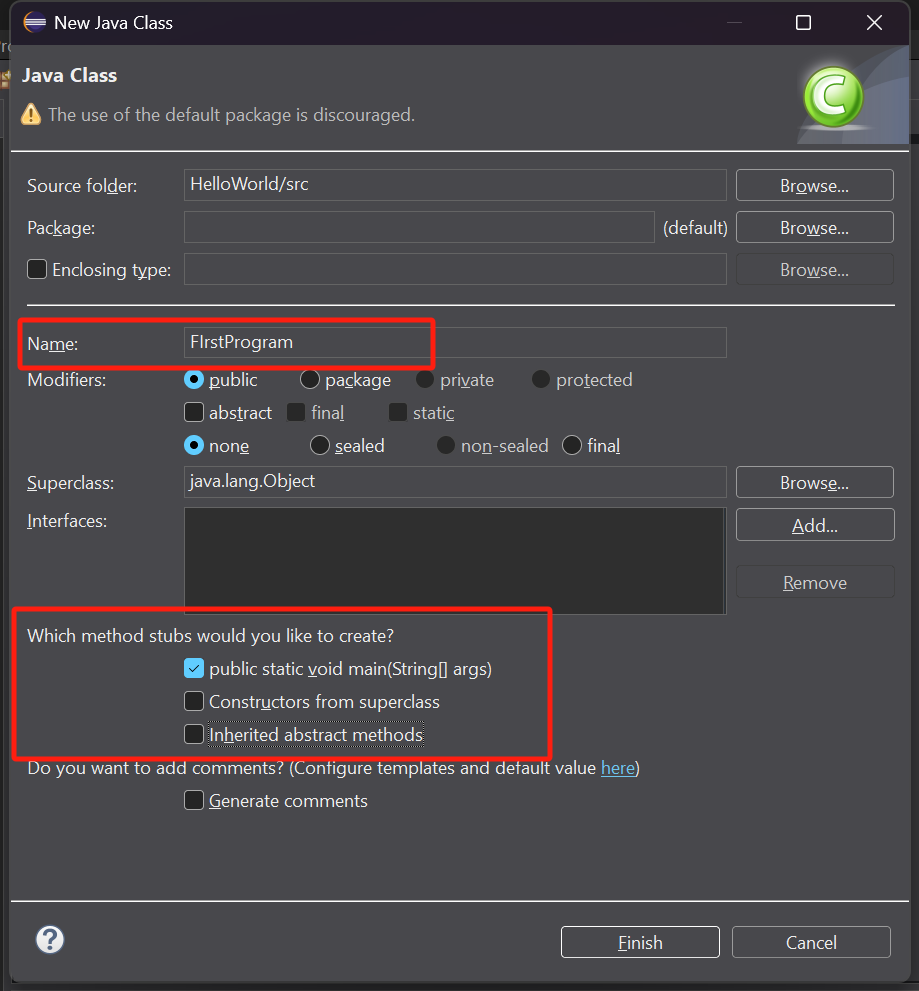
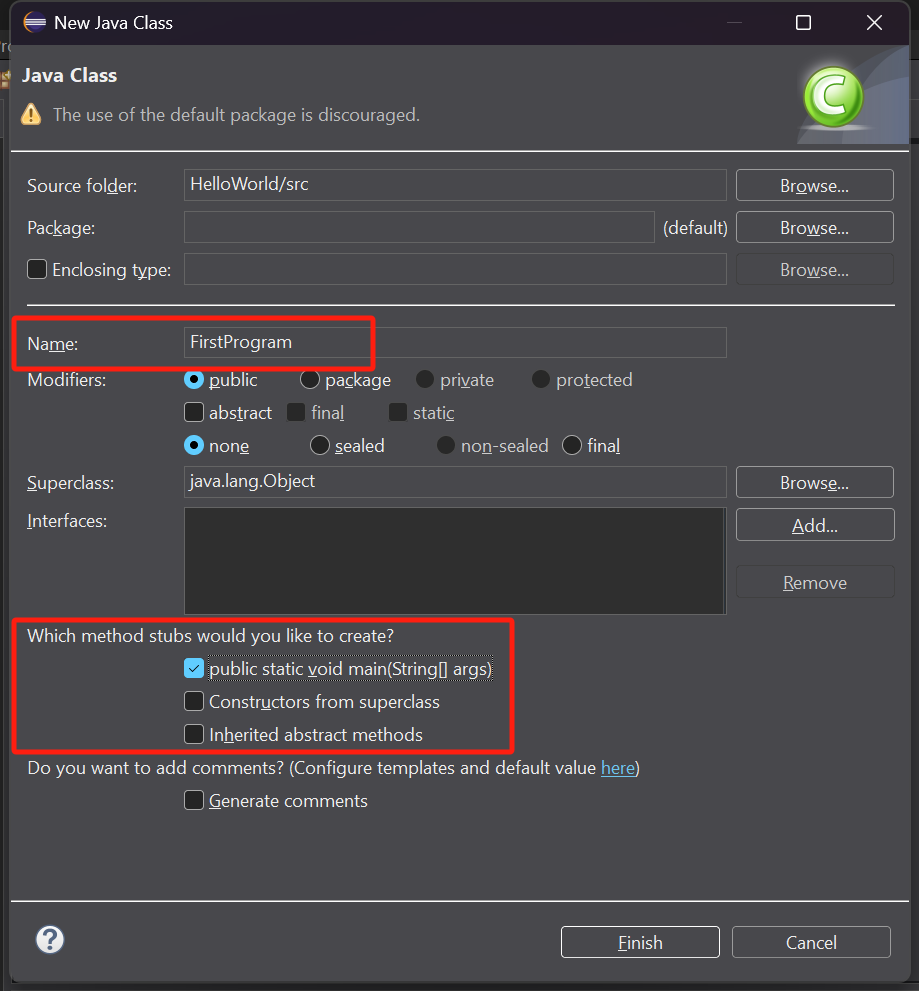
1.1

Changed region(s): [[0.0, 0.6054, 0.6094, 0.7871], [0.0, 0.3027, 0.4875, 0.3935], [0.0609, 0.0908, 0.457, 0.1211]]

diff --git a/Unit-01/1-1/src/FirstProgram.java b/Unit-01/1-1/src/FirstProgram.java
@@ -1,0 +1,6 @@
+public class FirstProgram {
+	public static void main(String[] args) {
+		// TODO Auto-generated method stub
+		System.out.println("Hello world!");
+	}
+}

diff --git a/Unit-01/1-1/README.md b/Unit-01/1-1/README.md
@@ -15,9 +15,9 @@ After click finish, you're greeted with the welcome window. Simply close the wel
 
 Next, right click on `src` in the left panel and create a new class. Follow the values changed in red boxes and finish.
 ![alt text](./assets/newclass.png)
-![alt text](./assets/newclass2.png)
+![alt text](image.png)
 
-By now you should see a new java file created with some code. Please copy the exact code below into the new file you just created `FirstProgram.java`.
+By now you should see a new java file created with some code. Please copy the exact code below into the new file you just created `FirstProgram.java`. [Source reference](./src/FirstProgram.java)
 ```java
 public class FirstProgram {
 	public static void main(String[] args) {
